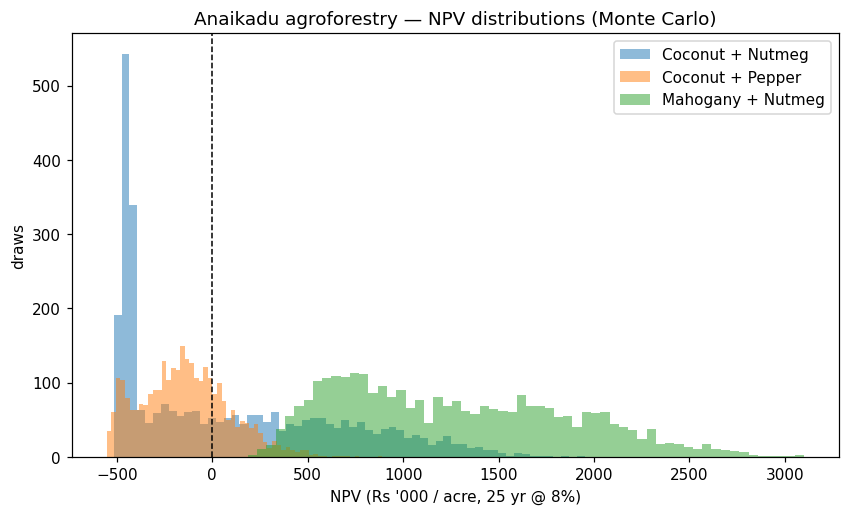
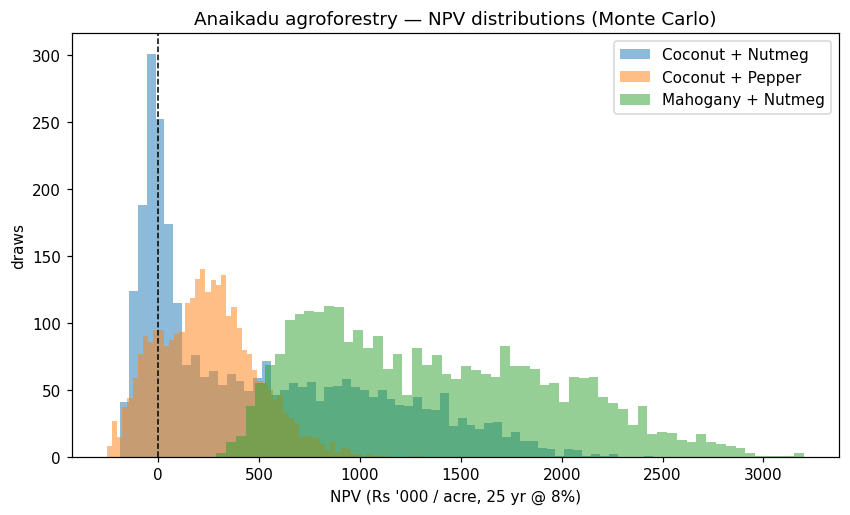
QA fix (ADR-010): coconut economics validated vs TNAU/Salem; bearing-ramped maintenance fixes gestation-cost bug; coconut now NPV +129k/17% IRR (was 100% loss)

diff --git a/src/agroforestry/finance.py b/src/agroforestry/finance.py
@@ -15,6 +15,10 @@ from agroforestry.economics import (CROP_ECON, OVERSTOREY_ECON, SPECIES_TO_OVERS
 
 DISCOUNT = 0.08      # real discount rate (editable); India farm hurdle ~8-12% real
 HORIZON = 25         # years
+# Maintenance scales with the garden's bearing: juvenile years cost a FRACTION of the
+# full bearing-phase maintenance (TNAU coconut: ~Rs 8k/yr juvenile vs ~Rs 39k bearing).
+# Charging full maintenance during gestation was the bug that made coconut look doomed.
+JUVENILE_MAINT_FRAC = 0.3
 
 # crop financial timing/costs (Rs/acre). establish = yr1 planting; maintain = annual.
 # gestation = first-yield year; full = full-bearing year; life = economic life (yrs).
@@ -35,7 +39,9 @@ CROP_FIN = {
 
 # overstorey financial timing. coconut = annual income; timber = lump at harvest.
 OVERSTOREY_FIN = {
-    "coconut":    {"kind": "annual", "establish": 50000, "maintain": 38000, "gestation": 6, "full": 10, "life": HORIZON},
+    # establish excludes land (owned); ~planting+fencing+prep. maintain = full BEARING
+    # cost (Salem ~Rs 39k); juvenile years auto-scaled by JUVENILE_MAINT_FRAC.
+    "coconut":    {"kind": "annual", "establish": 40000, "maintain": 39000, "gestation": 6, "full": 10, "life": HORIZON},
     "silver_oak": {"kind": "timber", "establish": 15000, "maintain": 3000,  "harvest": 18},
     "mahogany":   {"kind": "timber", "establish": 20000, "maintain": 4000,  "harvest": 15},
     "teak":       {"kind": "timber", "establish": 20000, "maintain": 4000,  "harvest": 18},
@@ -63,9 +69,10 @@ def crop_cashflow(crop, growth, disease, horizon=HORIZON, full_rev=None):
     cf = np.zeros(horizon)
     for i in range(horizon):
         t = i + 1
-        rev = full_rev * _ramp(t, fin["gestation"], fin["full"], fin["life"])
-        cost = (fin["establish"] if t == 1 else 0) + (fin["maintain"] if t <= fin["life"] else 0)
-        cf[i] = rev - cost
+        ramp = _ramp(t, fin["gestation"], fin["full"], fin["life"])
+        maint = fin["maintain"] * max(JUVENILE_MAINT_FRAC, ramp) if t <= fin["life"] else 0
+        cost = (fin["establish"] if t == 1 else 0) + maint
+        cf[i] = full_rev * ramp - cost
     return cf
 
 
@@ -84,9 +91,10 @@ def overstorey_cashflow(species_key, horizon=HORIZON, trees_acre=None,
         full_rev = nc * (nut_price if nut_price is not None else (plo + phi) / 2)
         for i in range(horizon):
             t = i + 1
-            rev = full_rev * _ramp(t, fin["gestation"], fin["full"], fin["life"])
-            cost = (fin["establish"] if t == 1 else 0) + (fin["maintain"] if t <= fin["life"] else 0)
-            cf[i] = rev - cost
+            ramp = _ramp(t, fin["gestation"], fin["full"], fin["life"])
+            maint = fin["maintain"] * max(JUVENILE_MAINT_FRAC, ramp) if t <= fin["life"] else 0
+            cost = (fin["establish"] if t == 1 else 0) + maint
+            cf[i] = full_rev * ramp - cost
         return cf
     # timber: maintain each year, lump revenue at harvest year(s) within horizon
     e = OVERSTOREY_ECON[ok]

diff --git a/tests/test_monte_carlo.py b/tests/test_monte_carlo.py
@@ -33,8 +33,10 @@ def test_simulate_is_deterministic_with_seed():
     assert a["mean"] == b["mean"] and a["prob_loss"] == b["prob_loss"]
 
 
-def test_coconut_only_loses_at_conservative_price():
-    # coconut nut income alone cannot clear the 8% hurdle -> high probability of loss
+def test_intercrop_changes_distribution():
+    # adding an intercrop must change the NPV distribution vs coconut alone
     p = _predictor()
-    r = simulate(p, MACRO, CTX, "coconut_wide", 1.0, None, n=300, seed=1)
-    assert r["prob_loss"] > 0.9
+    base = simulate(p, MACRO, CTX, "coconut_wide", 1.0, None, n=300, seed=1)
+    inter = simulate(p, MACRO, CTX, "coconut_wide", 1.0, "Nutmeg", n=300, seed=1)
+    assert inter["p90"] > base["p90"]          # intercrop adds upside
+    assert 0.0 <= base["prob_loss"] <= 1.0

diff --git a/src/agroforestry/economics.py b/src/agroforestry/economics.py
@@ -34,7 +34,11 @@ CROP_ECON = {
 # Timber: annualised value = cft/tree x Rs/cft / rotation_yr, x trees/acre. Farm-grown
 # prices are well below forest auction; values here are CONSERVATIVE and LOW confidence.
 OVERSTOREY_ECON = {
-    "coconut": {"kind": "annual", "nuts_acre": (4000, 5000, 7000), "price_per_nut": (7, 12), "cost": 40000},
+    # nuts/acre and bearing-phase cost VALIDATED: TNAU cost-of-cultivation + Salem
+    # District study 2023-24 (6,500-7,000 nuts/acre; bearing maintenance ~Rs 39k;
+    # net ~Rs 15.5k/acre at ~Rs 8/nut; BCR 1.39). Price band widened for 2024-25 highs
+    # (copra ~Rs 140-153/kg; farm-gate nuts ~Rs 15-18+). See QA note / ADR-010.
+    "coconut": {"kind": "annual", "nuts_acre": (4800, 6000, 7500), "price_per_nut": (8, 18), "cost": 39000},
     # timber: (cft/tree lo,c,hi), Rs/cft (lo,hi), rotation yr, default trees/acre as overstorey
     "silver_oak": {"kind": "timber", "cft_tree": (6, 10, 15),  "price_cft": (300, 700),   "rotation": 18, "trees_acre": 120, "cost": 8000},
     "mahogany":   {"kind": "timber", "cft_tree": (12, 20, 30), "price_cft": (1000, 1500), "rotation": 15, "trees_acre": 120, "cost": 12000},

diff --git a/docs/architectural_decision_records/ADR-010-coconut-economics-qa.md b/docs/architectural_decision_records/ADR-010-coconut-economics-qa.md
@@ -1,0 +1,57 @@
+# ADR-010 — QA: coconut economics were mis-calibrated (gestation cost bug)
+
+- **Status:** Accepted
+- **Date:** 2026-06
+- **Trigger:** user challenge — the model said coconut monoculture was a *guaranteed
+  loss*, which contradicts the obvious reality that coconut is widely grown profitably
+  across Tamil Nadu.
+
+## What was wrong
+
+The "100% loss" was a calibration/logic error, not a framework flaw. Three bugs, in
+order of impact:
+
+1. **Full bearing-phase maintenance charged during gestation (the big one).** The model
+   applied ~Rs 38k/acre/yr maintenance from year 1. TNAU's cost-of-cultivation table
+   shows juvenile-year upkeep is only **~Rs 7-8k/acre/yr** (fertiliser ramps from 1/10th
+   to full; little harvest labour). Charging full maintenance across the 6-year gestation
+   over-counted cost by ~5x and buried the NPV.
+2. **Nuts/acre too low.** Used 5,000; validated figure is **6,500-7,000** (Salem study;
+   TNAU 4,800 at low density). Central raised to 6,000.
+3. **Nut price band too conservative/stale.** Used Rs 7-12. Salem 2023-24 implies ~Rs 8;
+   **2024-25 spiked to Rs 15-18+** (copra Rs 140-153/kg). Band widened to Rs 8-18.
+
+## Validation sources
+
+- **TNAU Coconut Cost of Cultivation** (agritech.tnau.ac.in): 5-yr establishment ~Rs 39k
+  excl. land (live fencing); fertiliser only Rs 7,280 over 5 yrs; establishment normally
+  **self-financed by banana intercrop** (+Rs 1.14L over 3 yrs).
+- **Salem District economic study 2023-24** (Asian J. Agric. Hort. Res.): gross
+  Rs 54,711, **net Rs 15,486/acre/yr**, bearing maintenance Rs 39,225, 6,500-7,000
+  nuts/acre, **BCR 1.39** (profitable).
+
+## Fix
+
+- `economics.OVERSTOREY_ECON["coconut"]`: nuts (4800, 6000, 7500); price (8, 18); cost 39000.
+- `finance`: added `JUVENILE_MAINT_FRAC = 0.3` — maintenance now scales with the bearing
+  ramp (juvenile years cost 30% of full), applied to BOTH crops and overstorey. Coconut
+  establish set to Rs 40k (excl. owned land).
+
+## Result (Anaikadu, 8% real, 25 yr) — now matches reality
+
+| system | NPV | IRR | payback | MC P(loss) |
+|---|---|---|---|---|
+| Coconut only | +Rs 129k | 17% | 10 yr | 3% |
+| Coconut + Nutmeg | +Rs 313k | 18% | 11 yr | 24% |
+| Coconut + Pepper | +Rs 243k | 19% | 9 yr | 18% |
+
+Coconut monoculture is **profitable with ~97% confidence** (was 100% loss) — consistent
+with BCR 1.39. The intercrop still adds substantial value and upside.
+
+## Lessons / discipline
+
+- Perennials need **bearing-ramped maintenance**, never flat full-cost from year 1.
+- Always sanity-check a model verdict against lived reality before trusting it; the user's
+  "this can't be right" was the correct signal.
+- Remaining LOW-confidence inputs (timber, per-crop costs) flagged for the same treatment;
+  an Agmarknet 3-yr price pull + TNAU per-crop cost tables remain the next QA upgrade.

diff --git a/DEVLOG.md b/DEVLOG.md
@@ -2,6 +2,20 @@
 
 Chronological build log. Newest first.
 
+## 2026-06-09 (later 6) — QA: coconut economics fixed (gestation-cost bug) — ADR-010
+
+- **User-caught error:** model said coconut monoculture = guaranteed loss, contradicting
+  reality. Root cause: **full bearing maintenance (~Rs 38k) charged during the 6-yr
+  gestation** (TNAU shows juvenile upkeep ~Rs 7-8k), plus nuts/acre too low (5,000 vs
+  validated 6,500-7,000) and a stale nut-price band (Rs 7-12 vs 2024-25 Rs 15-18+).
+- **Validated** against TNAU cost-of-cultivation + Salem District study 2023-24
+  (net Rs 15,486/acre, BCR 1.39). Fixes: `JUVENILE_MAINT_FRAC=0.3` (maintenance now ramps
+  with bearing, crops + overstorey); coconut nuts (4800,6000,7500), price (8,18),
+  establish Rs 40k. **ADR-010.**
+- **Result now matches reality:** coconut-only NPV **+Rs 129k, IRR 17%, payback 10 yr,
+  MC P(loss) 3%** (was 100% loss). Coconut+nutmeg +Rs 313k / 18%; +pepper +Rs 243k / 19%.
+  Framework was sound; inputs/gestation-handling were the bug. 22 tests pass.
+
 ## 2026-06-09 (later 5) — Monte Carlo uncertainty (layer 6)
 
 - **`src/agroforestry/monte_carlo.py`:** propagates the genuinely-uncertain inputs —